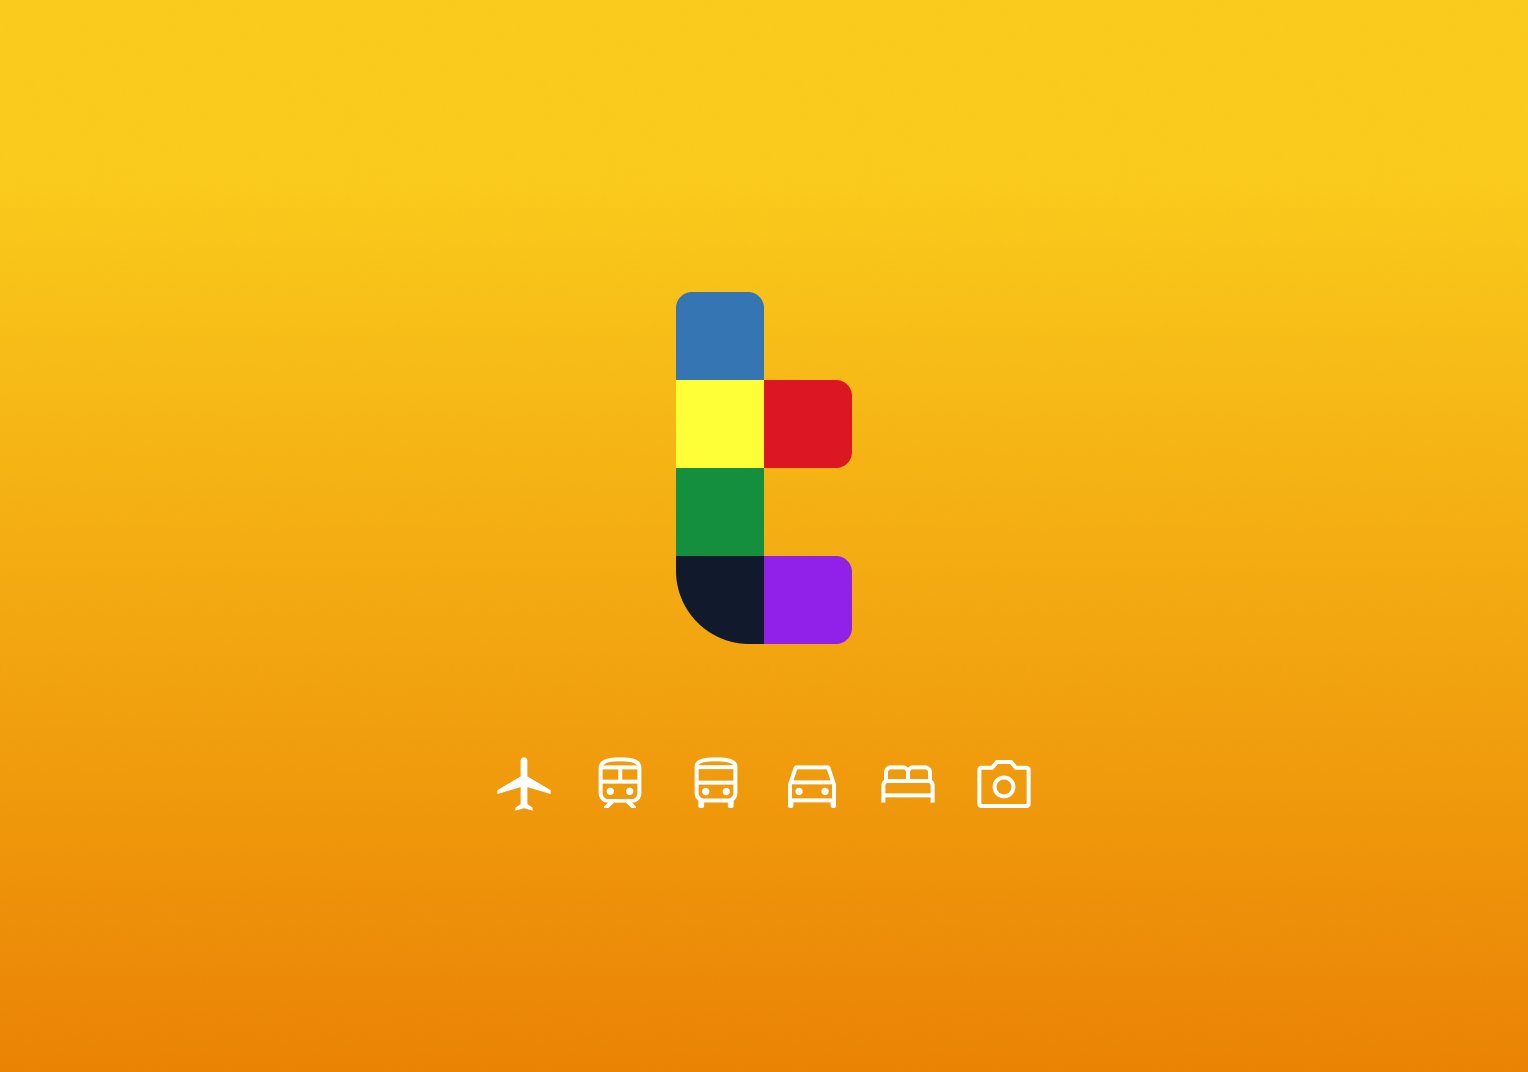
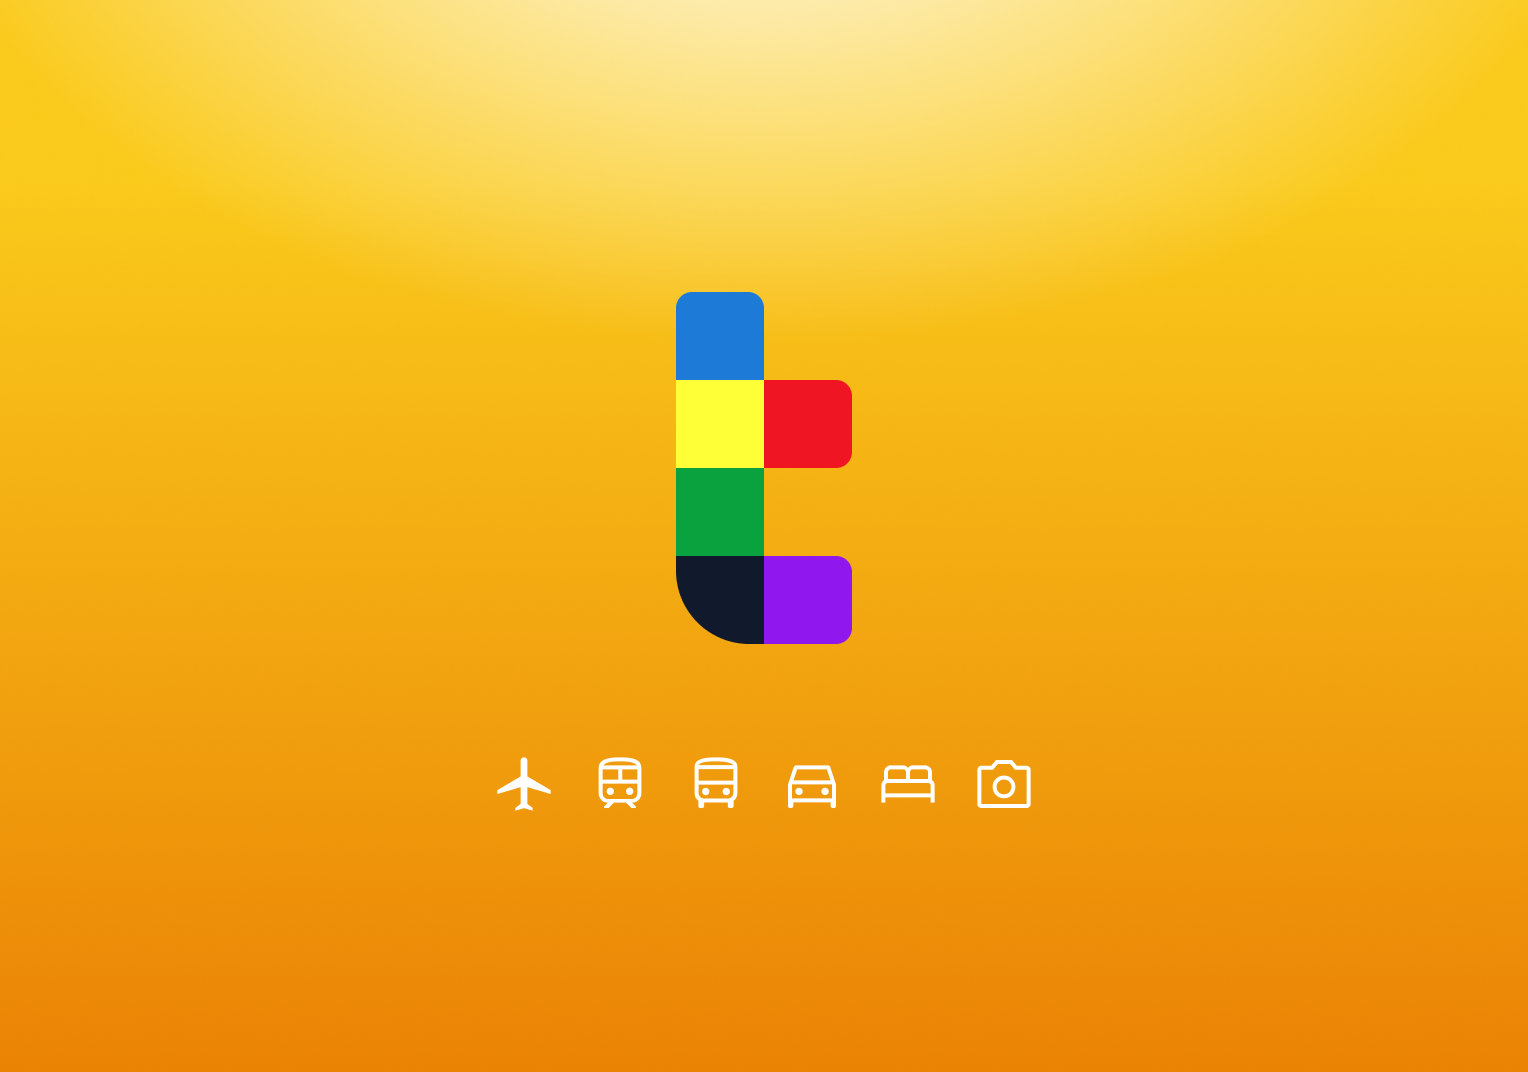
updates

Changed region(s): [[0.0308, 0.0, 0.9535, 0.3694]]

diff --git a/turisto.html b/turisto.html
@@ -47,7 +47,7 @@
 
             <div class="description max-1200">
 				<img src="source/images/turisto/01-logo.svg" alt="Turisto logo" class="turisto-logo centered">
-                <h1>turisto</h1>
+				<img src="source/images/turisto/01-logo-type.svg" alt="Turisto logo type" class="turisto-logo-type centered">
 				<p class="black-body">Online travel agency and carriers aggregator. A&nbsp;unique service for building complex travel itineraries with different modes of transport such as planes, trains and buses. Offering route building, ticketing, hotel bookings, car rentals, exciting excursions all that make travel experience unique.</p>
             </div>
 

diff --git a/source/styles/cases.css b/source/styles/cases.css
@@ -17,7 +17,9 @@
 
 .bg-yellow-gradient {
     
-    background: radial-gradient(47.46% 17.8% at 50% -8.72%, #FFFFFF 0%, rgba(255, 255, 255, 0) 100%), linear-gradient(180deg, #FFCC26 0%, #F5930A 100%);
+    background:
+    radial-gradient(47.46% 17.8% at 50% -8.72%, #FFFFFF 0%, rgba(255, 255, 255, 0) 100%),
+    linear-gradient(180deg, #FFCB0F 0%, #FF9305 96%);
 }
 
 .h-logo {
@@ -31,6 +33,12 @@
 .turisto-logo {
     width: 48px;
     height: auto;
+}
+
+.turisto-logo-type {
+    width: 300px;
+    height: auto;
+    margin-bottom: 24px;
 }
 
 p {
